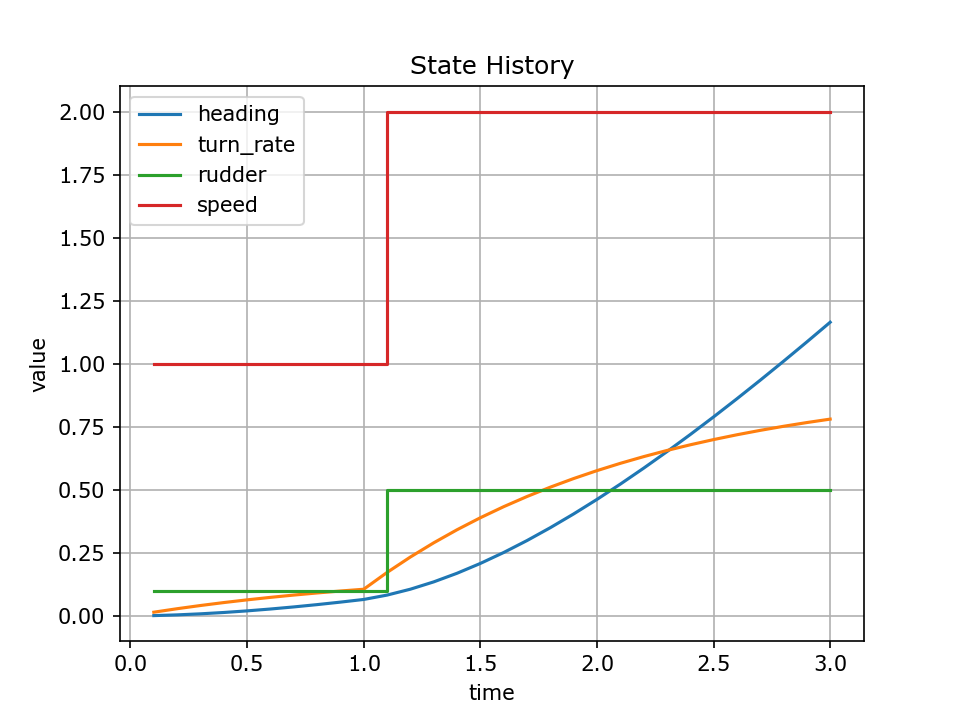
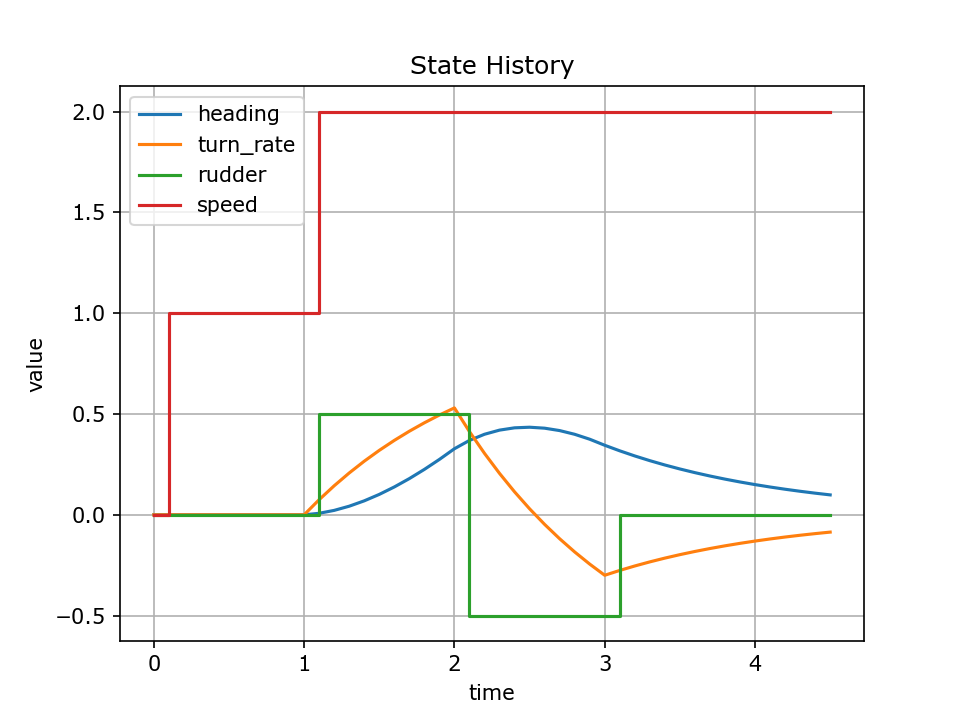
Formatting

diff --git a/main.py b/main.py
@@ -2,27 +2,28 @@ from minisim.ship import Ship
 from minisim.simulator import Simulator
 from minisim.render.plot2d import plot_trajectory, plot_state_history
 from minisim.control.command import ControlCommand
-from minisim.control.scripts import rudder_step_script, speed_step_script
+from minisim.control.scripts import rudder_step_script, speed_step_script, rudder_s_turn_script
 
-import math
-
-
-def main():
+def run_offline_sim(dt, steps, rudder_script, speed_script):
+    
     ship = Ship()
 
-    ship.state.speed = 2.0
-    
     command = ControlCommand()
     
     sim = Simulator(ship)
-
-    dt = 0.1
     
-    for i in range(30):
-        command.rudder = rudder_step_script(i)
-        command.speed = speed_step_script(i)
+    sim.record()
+    
+    for i in range(steps):
+        command.rudder = rudder_script(i)
+        command.speed = speed_script(i)
         sim.step(dt, command)
-
+        
+    return sim
+        
+        
+def show_results(sim):
+    
     for item in sim.history:
         print(f"time = {item['time']:.1f}")
         print(f"x = {item['x']:.3f}")
@@ -30,10 +31,28 @@ def main():
         print(f"heading = {item['heading']:.3f}")
         print(f"turn_rate = {item['turn_rate']:.3f}")
         print(f"rudder = {item['rudder']:.3f}")
+        print(f"speed = {item['speed']:.3f}")
         print()
         
     plot_trajectory(sim.history)
     plot_state_history(sim.history)
+    
+
+
+
+def main():
+    
+
+    dt = 0.1
+    steps = 45
+    
+    sim = run_offline_sim(dt, steps, rudder_s_turn_script, speed_step_script)
+    
+    show_results(sim)
+    
+    
+
+
 
 
 

diff --git a/minisim/control/scripts.py b/minisim/control/scripts.py
@@ -9,3 +9,36 @@ def speed_step_script(step_index):
         return 1.0
     else:
         return 2.0
+        
+def rudder_pulse_script(step_index):
+    if step_index < 10:
+        return 0.0
+    elif step_index < 20:
+        return 0.5
+    else: 
+        return 0.0
+        
+def rudder_s_turn_script(step_index):
+    if step_index < 10:
+        return 0.0
+    elif step_index < 20:
+        return 0.5
+    elif step_index < 30:
+        return -0.5
+    else:
+        return 0.0
+        
+def speed_ramp_script(step_index):
+    value = 0.5 + 0.05 * step_index
+    if value > 2.5:
+        value = 2.5
+    return value
+            
+def speed_hold_then_drop(step_index):
+    if step_index < 15:
+        return 2.0
+    elif step_index < 25:
+        return 1.0
+    else:
+        return 0.5
+            
